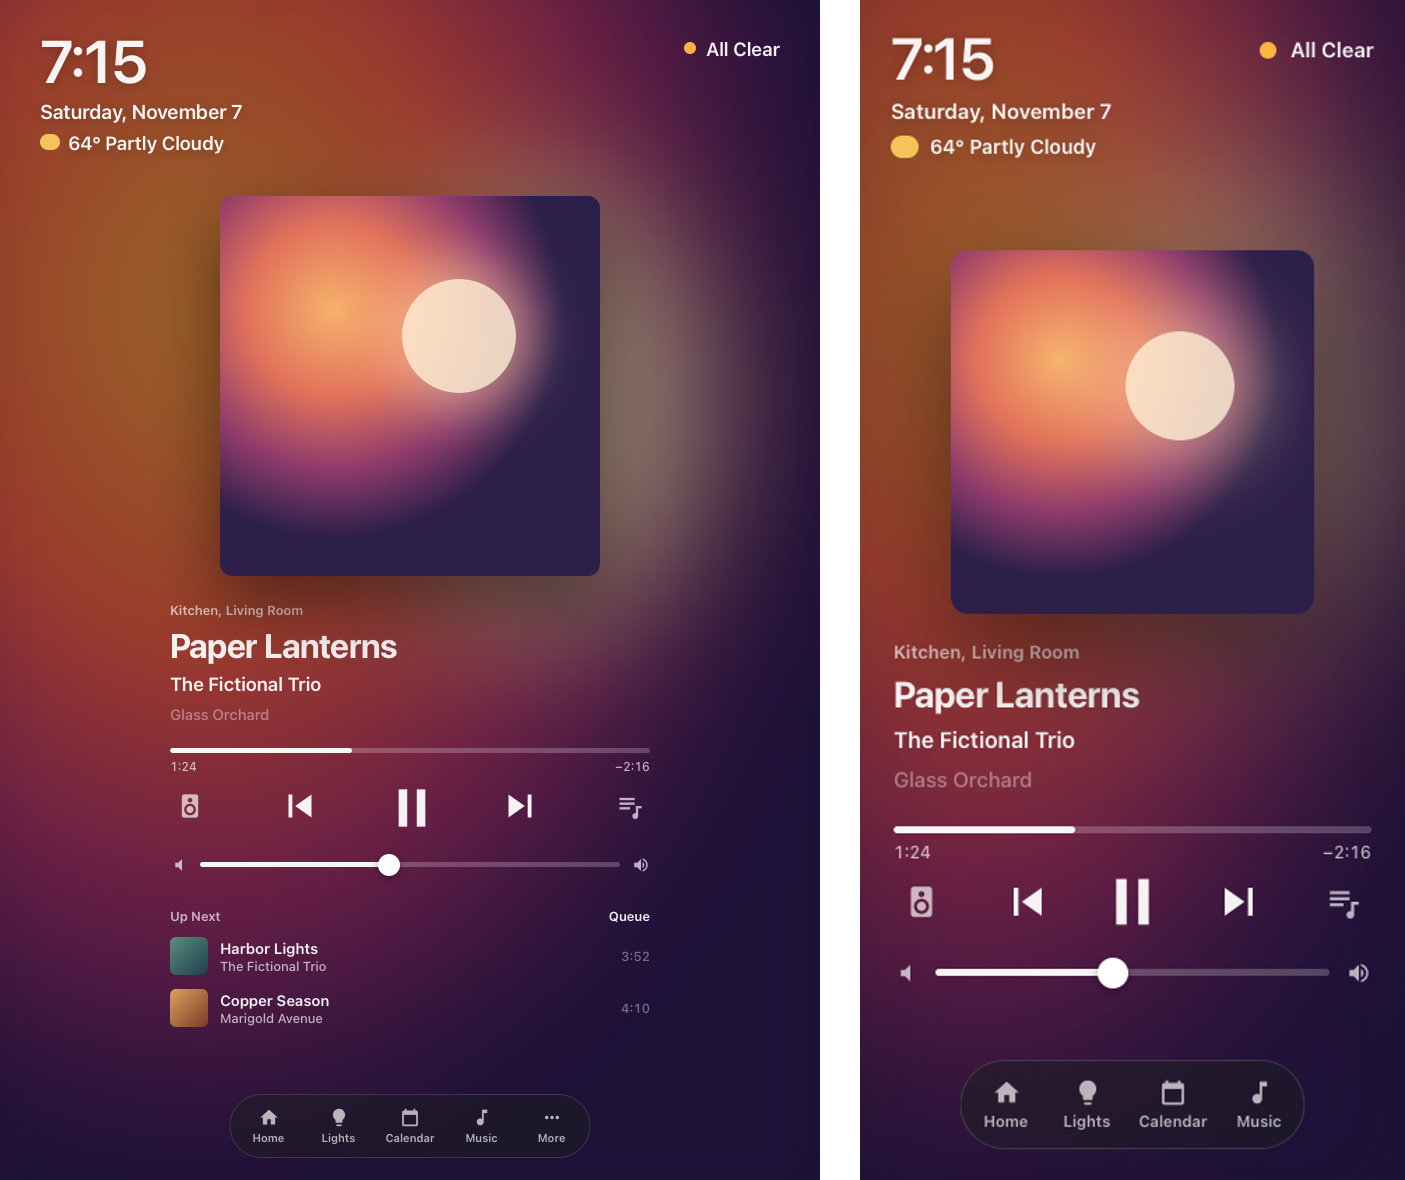
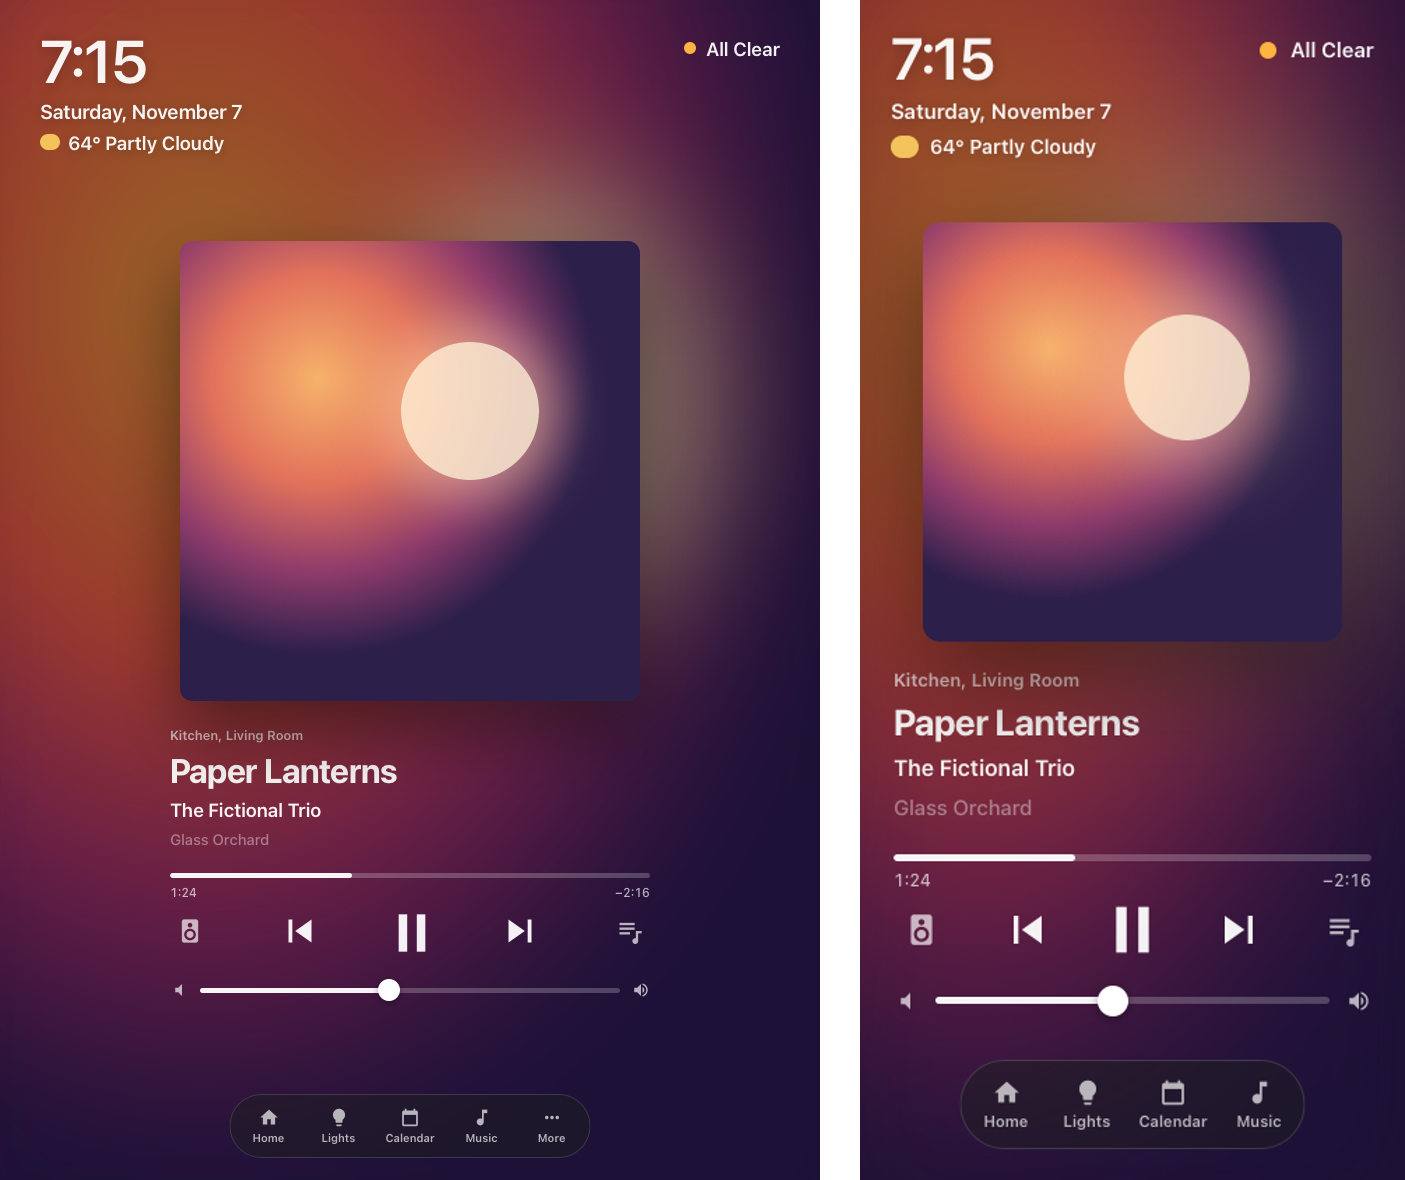
Now Playing mockup: the queue only beside the Side Pane
The owner, 2026-11-07: "We don't need the queue on all of them...just where it makes sense when there is enough vertical
room...like in the side pane." Beside the pane Up Next fills the room beside the cover; full screen, upright and on a
phone the Queue button opens it, and the covers there are their old sizes again.

diff --git a/docs/mockups/now-playing-page.html b/docs/mockups/now-playing-page.html
@@ -13,10 +13,11 @@
   It is the screensaver's music slide as a page (hk-saver-music.js), as it is since 2026-11-06:
   - FULL SCREEN: the corner the slide has (the time, the date, the weather; the home's status at the right), the song on
     the left and the cover on the right, the progress, the controls, the volume (a group's: its rooms' average, set on every
-    one), the play queue's next songs below; on a tall screen the cover over the song.
+    one); on a tall screen the cover over the song. The Queue button opens the play queue.
   - The controls bare, no wells, bigger (the owner, 2026-11-07: "I think it looks better without them"); the volume bar as
-    far below the play/pause as the progress bar is above it; the queue over playlists (playlists only with nothing queued).
-  - BESIDE THE SIDE PANE (its Clock, Calendar and Status sections): the cover and the song side by side, the progress, the
+    far below the play/pause as the progress bar is above it; beside the pane, the next songs fill the room beside the cover (the owner, 2026-11-07: "just where it makes sense
+    when there is enough vertical room...like in the side pane"); playlists only with nothing playing.
+  - BESIDE THE SIDE PANE (its Clock, Calendar and Status sections): the cover and the song (Up Next under it) side by side, the progress, the
     controls and the volume the music area's width under them -- the slide's own layout beside a pane. The pane has the
     time and the status, so the music area doesn't say them twice.
   The tab bar floats over the page, as on every page.
@@ -131,18 +132,16 @@
 
   /* UPRIGHT TABLET (to 860): the cover over the song; the Side Pane isn't drawn this narrow */
   @media (max-width: 860px) {
-    .page { grid-template-columns: 1fr; align-content: center; justify-items: center; gap: 26px; padding: 170px 64px 120px; }
-    .page .art { order: 0; justify-self: center; width: min(100%, 380px); }
-    .queue .r:nth-child(4) { display: none; }
+    .page { grid-template-columns: 1fr; align-content: center; justify-items: center; gap: 26px; padding: 190px 64px 130px; }
+    .page .art { order: 0; justify-self: center; width: min(100%, 480px); }
     .col { width: min(100%, 480px); }
   }
   /* PHONE (to 640) */
   @media (max-width: 640px) {
     .corner { left: 22px; top: 20px; } .corner .t { font-size: 42px; } .corner .d { font-size: 15px; } .corner .w { font-size: 14px; }
     .status { right: 22px; top: 26px; font-size: 15px; }
-    .page { gap: 18px; padding: 140px 24px 100px; }
-    .page .art { width: min(100%, 260px); }
-    .queue { display: none; } /* a phone has no room: the Queue button opens it */
+    .page { gap: 18px; padding: 150px 24px 110px; }
+    .page .art { width: min(100%, 300px); }
     .title { font-size: 26px; letter-spacing: -.5px; }
     .artist { font-size: 16px; }
     :root { --ctl-top: -11px; --vol-top: 4px; }
@@ -204,10 +203,9 @@
       '<div class="vol">' + P(I.vlo) + '<div class="vt"><i></i><b></b></div>' + P(I.vhi) + '</div>' +
       '';
   // full screen: everything in the song's column; beside the pane: the rest under the cover and the song, the area's width
-  // beside the pane the queue fills the room beside the cover, under the song
-  const q2 = state === 'idle' ? '' : queue;
-  if (document.body.classList.contains('pane-right')) { document.getElementById('col').innerHTML = head + q2; document.getElementById('rest').innerHTML = rest; }
-  else document.getElementById('col').innerHTML = head + rest + q2;
+  // the queue only beside the pane, where it fills the room beside the cover; elsewhere the Queue button opens it
+  if (document.body.classList.contains('pane-right')) { document.getElementById('col').innerHTML = head + (state === 'idle' ? '' : queue); document.getElementById('rest').innerHTML = rest; }
+  else document.getElementById('col').innerHTML = head + rest;
   document.getElementById('tabs').innerHTML = [['home', 'Home', I.home], ['light', 'Lights', I.light], ['cal', 'Calendar', I.cal],
     ['note', 'Music', I.note], ['more', 'More', I.more]].map(([k, t, d]) => '<span>' + P(d) + t + '</span>').join('');
 </script>
